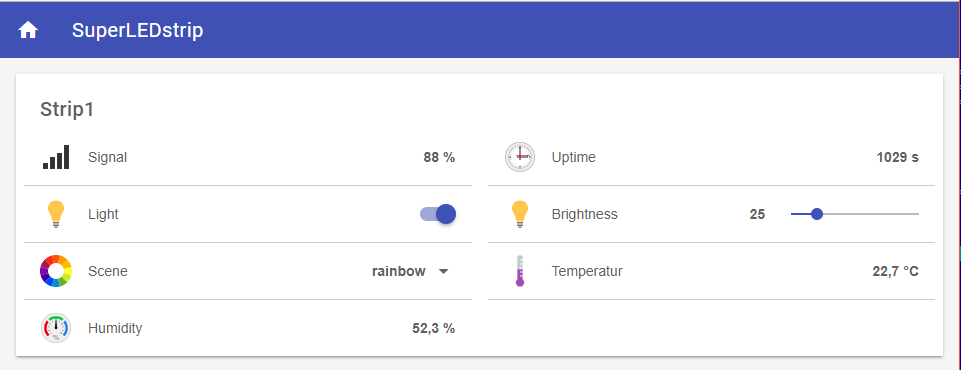
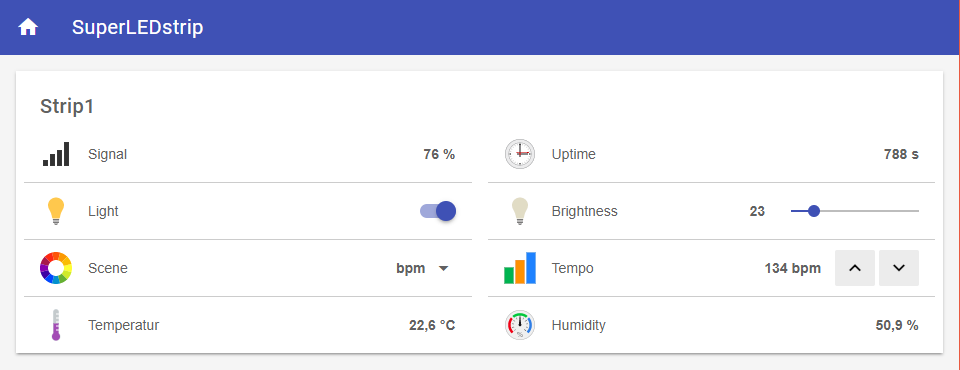
make bpm settable via mqtt

diff --git a/led_functions.h b/led_functions.h
@@ -9,6 +9,11 @@ void setBrightness(uint8_t newBrightness)
    lightNode.setProperty("brightness").send(String(currentBrightness));
 }
 
+void setTempo(uint8_t tempo) {
+  BeatsPerMinute = tempo;
+  lightNode.setProperty("tempo").send(String(BeatsPerMinute));
+}
+
 // toggle brightness between 0 and current
 void toggleBrightness()
 {

diff --git a/led_patterns.h b/led_patterns.h
@@ -180,7 +180,6 @@ void rainbow()
 void bpm()
 {
   // colored stripes pulsing at a defined Beats-Per-Minute (BPM)
-  uint8_t BeatsPerMinute = 80;
   CRGBPalette16 palette = PartyColors_p;
   uint8_t beat = beatsin8( BeatsPerMinute, 64, 255);
   for( int i = 0; i < NUM_LEDS; i++) { //9948
